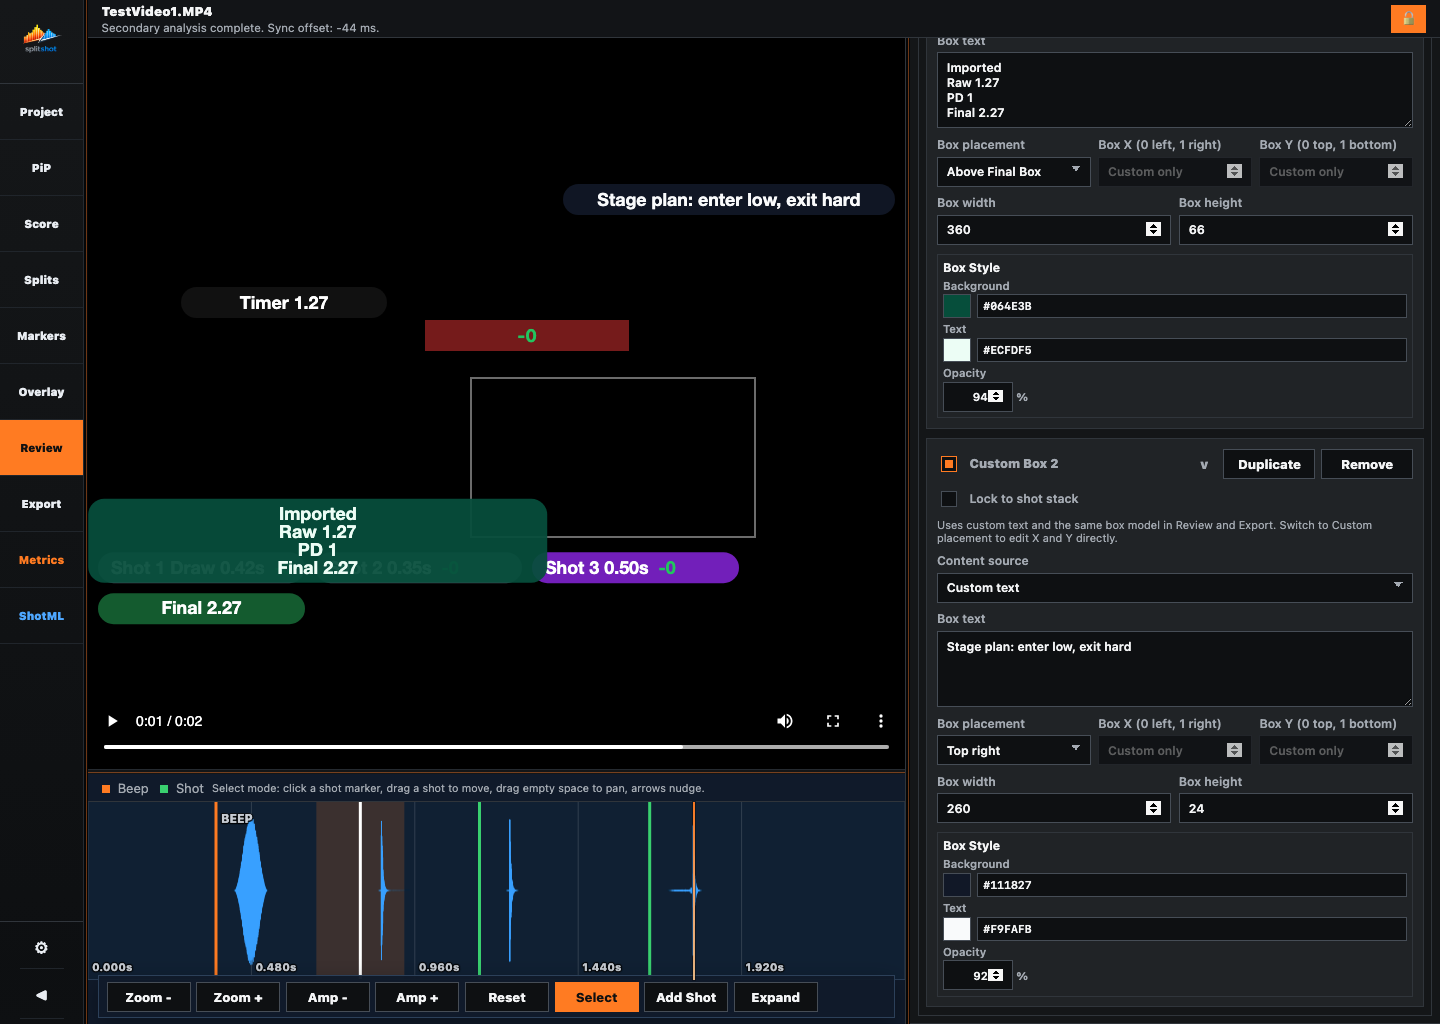
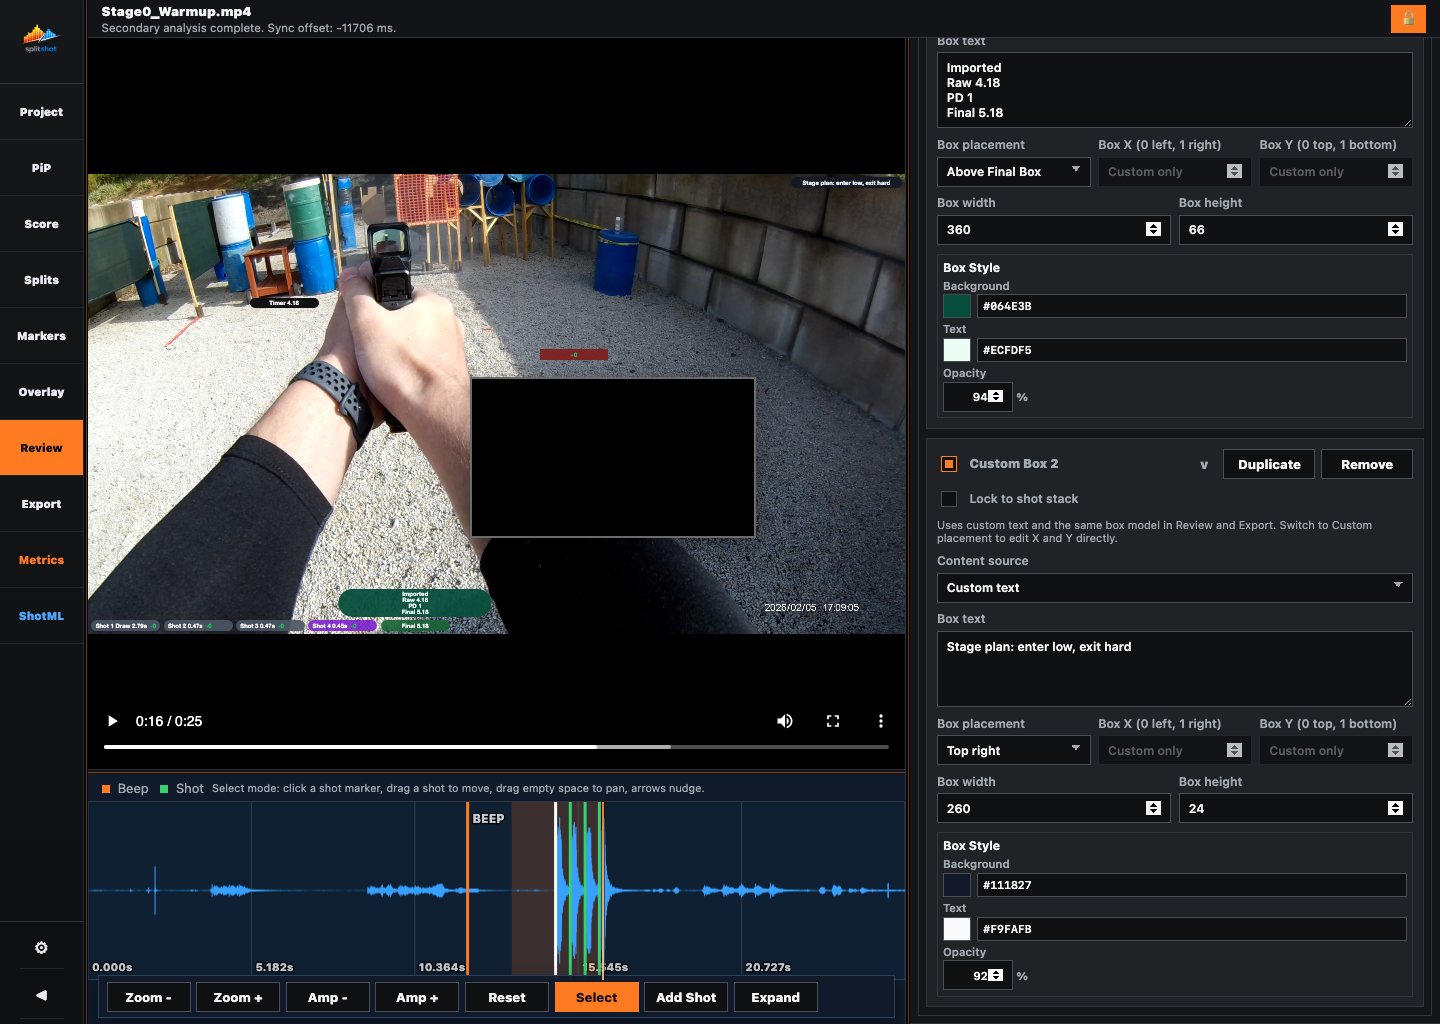
updating documents

diff --git a/scripts/docs/capture_browser_screenshots.py b/scripts/docs/capture_browser_screenshots.py
@@ -13,7 +13,7 @@ from splitshot.ui.controller import ProjectController
 
 ROOT = Path(__file__).resolve().parents[2]
 SCREENSHOT_DIR = ROOT / "docs" / "screenshots"
-PRIMARY_VIDEO = ROOT / "tests" / "artifacts" / "test_video" / "TestVideo1.MP4"
+PRIMARY_VIDEO = ROOT / "Stage0_Warmup.mp4"
 MERGE_VIDEO = ROOT / "tests" / "artifacts" / "test_video" / "TestVideo2.MP4"
 PRACTISCORE = ROOT / "example_data" / "IDPA" / "IDPA.csv"
 VIEWPORT = {"width": 1440, "height": 1024}

diff --git a/README.md b/README.md
@@ -1,5 +1,5 @@
 <p align="center">
-	<img src="src/splitshot/browser/static/githublogo.png" alt="SplitShot logo" width="800" />
+	<img src="newlogo.png" alt="SplitShot logo" width="894" />
 </p>
 
 # SplitShot
@@ -10,37 +10,57 @@ SplitShot is a local-first browser app for competition shooting video analysis, 
 
 ## Start Here
 
-If you just forked SplitShot, read these in order:
+If you are new to SplitShot:
 
-1. This `README.md` for install, quickstart, and repo shape.
-2. [docs/project/DEVELOPING.md](docs/project/DEVELOPING.md) for the day-1 developer workflow.
-3. [docs/project/ARCHITECTURE.md](docs/project/ARCHITECTURE.md) for runtime layers, ownership, and data flow.
-4. [docs/tests/TEST_SUITE_GUIDE.md](docs/tests/TEST_SUITE_GUIDE.md) for the validation strategy and suite map.
-5. [scripts/README.md](scripts/README.md) for operational scripts, audits, release helpers, and analysis tooling.
+1. Read this `README.md` for platform-specific install and launch paths.
+2. Use the `Quickstart` section below to get from install to first project quickly.
+3. Continue with [docs/userfacing/USER_GUIDE.md](docs/userfacing/USER_GUIDE.md) for the full app walkthrough.
 
-If you only need the product docs, start with [docs/userfacing/USER_GUIDE.md](docs/userfacing/USER_GUIDE.md).
+If you just forked the repo and want maintainer context, use the developer section near the bottom after you finish the user-facing install path.
 
-## What SplitShot Does
+## SplitShot Features
 
-- Imports local stage video and keeps the workflow on your machine.
-- Detects the start beep and shot events from audio with the built-in ShotML pipeline.
-- Lets you review, fix, and extend timing data in the waveform and split editor.
-- Supports manual scoring or PractiScore-backed stage context.
-- Composes live overlays, review boxes, and marker callouts on the preview and final export.
-- Adds PiP, side-by-side, or above-below supporting media.
-- Exports metrics, summaries, and a finished local video render through FFmpeg.
+- **Local video-first workflow:** Import stage footage directly from disk, keep your raw files on your own machine, and work without handing match video to a cloud service.
+- **Automatic start beep and shot detection:** Run the built-in ShotML pipeline to detect the start beep and likely shot events so you begin from a populated timing draft instead of a blank timeline.
+- **Manual timing correction and review:** Inspect waveform markers, nudge or drag shot positions, add missing events, remove false positives, and make the final timeline match what actually happened on the run.
+- **Stage scoring with optional PractiScore context:** Score the run manually or import official stage and competitor context from PractiScore so timing, scoring, and final presentation stay tied to the same source data.
+- **Overlay, marker, and review composition:** Build export-ready timer badges, shot badges, score summaries, review text boxes, and marker callouts that stay visible in preview and final render.
+- **PiP and multi-angle comparison:** Add secondary videos or stills, place them as PiP, side-by-side, or above-below layouts, and tune sync and opacity to clarify transitions or positions.
+- **Post-stage metrics and export summaries:** Review timing graphs, expanded tables, CSV/text exports, and run summaries derived from the same corrected project state.
+- **Local final video rendering:** Export a finished video through FFmpeg with your chosen timing, overlays, review text, added media, and presentation settings.
 
-## Install
+## Quickstart
 
-SplitShot runs from source or as a macOS Electron app.
+1. Install SplitShot using the platform section below.
+2. Launch the app from source or through the Electron shell.
+3. Create or select a project in the `Project` pane.
+4. Import the primary video and let SplitShot detect the start beep and shots.
+5. Review timing in `ShotML` and `Splits`.
+6. Score the run, configure overlay/review output, and add PiP media if needed.
+7. Review metrics, then export the final video.
 
-### Prerequisites
+For the full user workflow, continue with [docs/userfacing/workflow.md](docs/userfacing/workflow.md).
 
-- `uv`: [docs.astral.sh/uv/getting-started/installation](https://docs.astral.sh/uv/getting-started/installation/)
-- `ffmpeg`: [ffmpeg.org/download.html](https://ffmpeg.org/download.html)
-- `git`: [git-scm.com/downloads](https://git-scm.com/downloads)
+## Install - macOS
 
-### Source Install
+### Electron install and use
+
+The Electron shell is the native desktop packaging path for SplitShot. From a local clone:
+
+```bash
+git clone https://github.com/jklock/splitshot.git
+cd splitshot/electron
+npm install
+npm start
+```
+
+Useful Electron commands:
+
+- `npm run build:mac` builds the macOS DMG packaging target.
+- `npm test` runs the Electron launch-intent and smoke tests.
+- [docs/project/ELECTRON_RELEASE.md](docs/project/ELECTRON_RELEASE.md) covers signing and notarization details.
+
+### Source-clone install and use
 
 ```bash
 git clone https://github.com/jklock/splitshot.git
@@ -52,66 +72,102 @@ uv run splitshot
 
 If the browser does not open automatically, retry with `uv run splitshot --no-open` and open the printed URL manually.
 
-### Runtime Check
+## Install - Windows
+
+### Electron install and use
+
+SplitShot includes a configured Windows Electron target through `electron-builder`:
+
+```powershell
+git clone https://github.com/jklock/splitshot.git
+cd splitshot\electron
+npm install
+npm start
+```
+
+Useful Electron commands:
+
+- `npm run build:win` builds the Windows NSIS installer target.
+- `npm test` runs the Electron launch-intent and smoke tests.
+- Windows packaging is configured in-repo, but it is not CI-tested at the same depth as the macOS packaging path.
+
+### Source-clone install and use
+
+```powershell
+git clone https://github.com/jklock/splitshot.git
+cd splitshot
+uv python install 3.12
+uv sync --extra dev
+uv run splitshot
+```
+
+Use `uv run splitshot --no-open` if the browser does not open automatically.
+
+## Install - Linux
+
+### Electron install and use
+
+SplitShot includes a configured Linux Electron target through `electron-builder`:
+
+```bash
+git clone https://github.com/jklock/splitshot.git
+cd splitshot/electron
+npm install
+npm start
+```
+
+Useful Electron commands:
+
+- `npm run build:linux` builds the Linux AppImage target.
+- `npm test` runs the Electron launch-intent and smoke tests.
+- Linux packaging is configured in-repo, but it is not CI-tested at the same depth as the macOS packaging path.
+
+### Source-clone install and use
+
+```bash
+git clone https://github.com/jklock/splitshot.git
+cd splitshot
+uv python install 3.12
+uv sync --extra dev
+uv run splitshot
+```
+
+Use `uv run splitshot --no-open` if the browser does not open automatically.
+
+## Runtime Check
+
+Run this after setup on any platform:
 
 ```bash
 uv run splitshot --check
 ```
 
-### Electron App
+## User Documentation
 
-The Electron shell targets macOS packaging and release signing. Use [docs/project/ELECTRON_RELEASE.md](docs/project/ELECTRON_RELEASE.md) for the packaging and notarization workflow.
-
-## Quickstart
-
-1. Launch `uv run splitshot`.
-2. Create or select a project in the `Project` pane.
-3. Import the primary video and let analysis detect the start beep and shots.
-4. Review timing in `ShotML` and `Splits`.
-5. Score the run, configure overlay/review output, and add PiP media if needed.
-6. Review metrics, then export the final video.
-
-For the user workflow, continue with [docs/userfacing/workflow.md](docs/userfacing/workflow.md).
-
-## Repo Reading Path
-
-### For fork owners and maintainers
-
-- [docs/README.md](docs/README.md): full documentation index by audience
-- [docs/project/DEVELOPING.md](docs/project/DEVELOPING.md): local setup, first commands, and daily workflow
-- [docs/project/ARCHITECTURE.md](docs/project/ARCHITECTURE.md): controller, project model, browser shell, analysis, export
-- [src/splitshot/README.md](src/splitshot/README.md): source tree map and code entrypoints
-- [docs/tests/TEST_SUITE_GUIDE.md](docs/tests/TEST_SUITE_GUIDE.md): which tests own which contracts
-- [scripts/README.md](scripts/README.md): script inventory and when to use each tool
-- [docs/project/LIMITATIONS.md](docs/project/LIMITATIONS.md): current intentional constraints and known boundaries
-
-### For users
+Start here for product usage:
 
 - [docs/userfacing/USER_GUIDE.md](docs/userfacing/USER_GUIDE.md)
 - [docs/userfacing/workflow.md](docs/userfacing/workflow.md)
 - [docs/userfacing/troubleshooting.md](docs/userfacing/troubleshooting.md)
 - [docs/userfacing/panes/](docs/userfacing/panes/)
 
-## Common Commands
+## Developer Documentation
 
-```bash
-uv sync --extra dev
-uv run splitshot
-uv run splitshot --headless
-uv run splitshot --check
-uv run python scripts/testing/run_test_suite.py --mode all-together --format table
-uvx ruff check .
-uvx ruff format .
-```
+Use these after the user-facing install and workflow docs:
 
-## Read This Next
-
-- [docs/README.md](docs/README.md) for the full documentation index
-- [CONTRIBUTING.md](CONTRIBUTING.md) for change workflow and review expectations
-- [docs/tests/TEST_SUITE_GUIDE.md](docs/tests/TEST_SUITE_GUIDE.md) for validation
-- [scripts/README.md](scripts/README.md) for maintenance scripts
-- [docs/project/ELECTRON_RELEASE.md](docs/project/ELECTRON_RELEASE.md) for packaged-app release work
+- [docs/README.md](docs/README.md): full documentation index by audience
+- [docs/project/DEVELOPING.md](docs/project/DEVELOPING.md): local setup, daily workflow, and first engineering reads
+- [docs/project/ARCHITECTURE.md](docs/project/ARCHITECTURE.md): runtime layers, controller/model boundaries, and data flow
+- [src/splitshot/README.md](src/splitshot/README.md): source tree map and subsystem entrypoints
+- [docs/tests/TEST_SUITE_GUIDE.md](docs/tests/TEST_SUITE_GUIDE.md): validation and suite ownership
+- [scripts/README.md](scripts/README.md): scripts, audits, and release helpers
+- [docs/project/LIMITATIONS.md](docs/project/LIMITATIONS.md): current repo/runtime constraints
+- [CONTRIBUTING.md](CONTRIBUTING.md): contribution workflow and review expectations
 
 ## License
 
 SplitShot is licensed under the MIT License. See [LICENSE](LICENSE).
+
+## Support SplitShot
+
+[buymeacoffee.com/glockenkemper](https://buymeacoffee.com/glockenkemper)

diff --git a/docs/README.md b/docs/README.md
@@ -1,10 +1,10 @@
 # SplitShot Documentation
 
-This is the documentation index for SplitShot. Use it as the routing layer between user docs, maintainer docs, subsystem maps, tests, and scripts.
+This is the documentation index for SplitShot. It routes readers through user docs first, then maintainer, developer, and code-reader references.
 
 ## Start Here
 
-If you just forked SplitShot, read these in order:
+If you just forked SplitShot, read these in order after the top-level install path in the root README:
 
 1. [../README.md](../README.md)
 2. [project/DEVELOPING.md](project/DEVELOPING.md)
@@ -32,6 +32,8 @@ If you just forked SplitShot, read these in order:
 - [userfacing/panes/settings.md](userfacing/panes/settings.md)
 - [userfacing/panes/metrics.md](userfacing/panes/metrics.md)
 
+This is the primary reading path for people trying to use SplitShot rather than maintain it.
+
 ### Fork owners and maintainers
 
 - [project/DEVELOPING.md](project/DEVELOPING.md)
@@ -41,6 +43,8 @@ If you just forked SplitShot, read these in order:
 - [tests/TEST_SUITE_GUIDE.md](tests/TEST_SUITE_GUIDE.md)
 - [../scripts/README.md](../scripts/README.md)
 - [../CONTRIBUTING.md](../CONTRIBUTING.md)
+
+The repo supports macOS, Windows, and Linux source usage, and it also includes Electron packaging targets for all three platforms. macOS remains the deepest documented release-signing path, while Windows and Linux packaging are configured but not CI-tested to the same depth.
 
 ### Code readers
 
@@ -87,8 +91,8 @@ Covered surfaces:
 
 ## Read This Next
 
-- [../README.md](../README.md) for install and quickstart
-- [project/DEVELOPING.md](project/DEVELOPING.md) for first-run developer workflow
+- [../README.md](../README.md) for the per-OS install and launch paths
+- [userfacing/USER_GUIDE.md](userfacing/USER_GUIDE.md) for product usage
+- [project/DEVELOPING.md](project/DEVELOPING.md) for developer workflow
 - [project/ARCHITECTURE.md](project/ARCHITECTURE.md) for subsystem boundaries
 - [tests/TEST_SUITE_GUIDE.md](tests/TEST_SUITE_GUIDE.md) for validation
-- [../scripts/README.md](../scripts/README.md) for operational tooling

diff --git a/docs/userfacing/USER_GUIDE.md b/docs/userfacing/USER_GUIDE.md
@@ -4,7 +4,7 @@ SplitShot is a local-first browser app for turning stage footage into a reviewed
 
 ## Start Here
 
-1. Install and launch SplitShot from the root [README.md](../../README.md).
+1. Install and launch SplitShot from the per-platform instructions in the root [README.md](../../README.md).
 2. Open [panes/project.md](panes/project.md), name the run, and import the primary video.
 3. Use [workflow.md](workflow.md) for the full import-to-export path.
 4. Open the pane guide for any control you need to understand before changing it.
